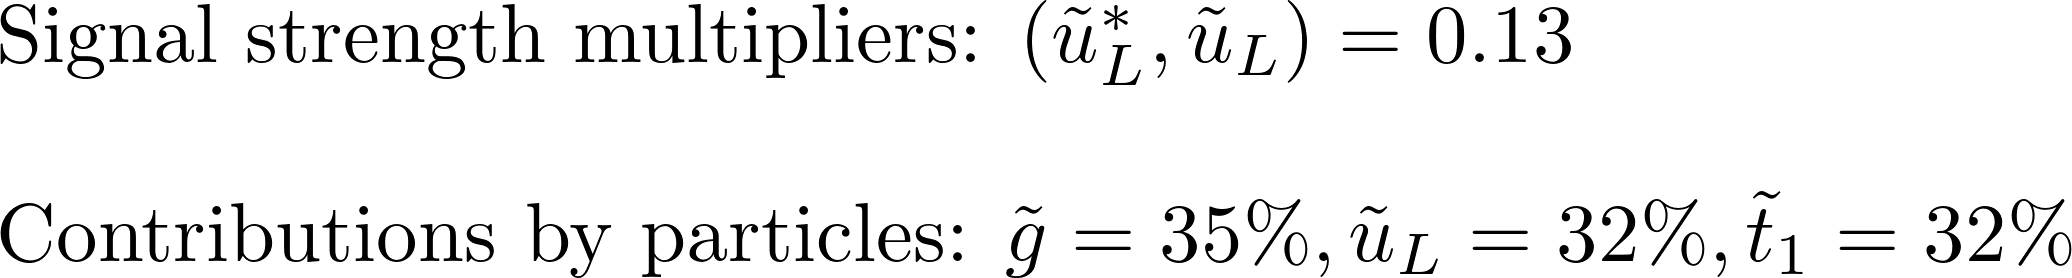
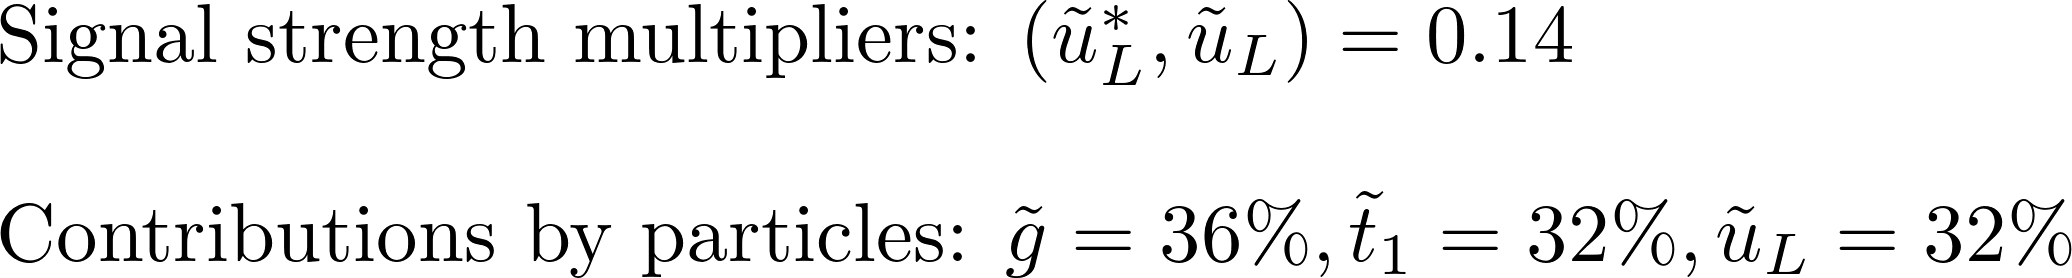
automated update by plotHiscore.py

diff --git a/protomodels/latest/index.html b/protomodels/latest/index.html
@@ -1,31 +1,31 @@
 <html>
 <body>
 <center>
-<table><td><h1>Current best protomodel: K=9.63, Z=3.63</h1><td><img height=60px src=https://smodels.github.io/pics/banner.png></table>
+<table><td><h1>Current best protomodel: K=9.92, Z=3.64</h1><td><img height=60px src=https://smodels.github.io/pics/banner.png></table>
 </center>
-<b><a href=./hiscore.slha>ProtoModel</a> <a href=./pmodel.py>(dict)</a> produced with <a href=https://smodels.github.io/docs/Validation123>database v1.2.3</a>, combination strategy <a href=./matrix_aggressive.png>aggressive</a> in walker 48 step 289.</b> Z plots for: <a href=./M1000022.png?2244664>~&chi;<sub>1</sub><sup>0</sup></a>, <a href=./M1000002.png?2244664>~u<sub>L</sub></a>, <a href=./M1000006.png?2244664>~t<sub>1</sub></a>, <a href=./M1000021.png?2244664>~g</a>. HPD plots for: <a href=./llhd1000002.png?2244664>~u<sub>L</sub></a>, <a href=./llhd1000006.png?2244664>~t<sub>1</sub></a>, <a href=./llhd1000021.png?2244664>~g</a>. SSM plots for: <br>
+<b><a href=./hiscore.slha>ProtoModel</a> <a href=./pmodel.py>(dict)</a> produced with <a href=https://smodels.github.io/docs/Validation123>database v1.2.3</a>, combination strategy <a href=./matrix_aggressive.png>aggressive</a> in walker 16 step 289.</b> Z plots for: <a href=./M1000022.png?2244828>~&chi;<sub>1</sub><sup>0</sup></a>, <a href=./M1000002.png?2244828>~u<sub>L</sub></a>, <a href=./M1000006.png?2244828>~t<sub>1</sub></a>, <a href=./M1000021.png?2244828>~g</a>. HPD plots for: <a href=./llhd1000002.png?2244828>~u<sub>L</sub></a>, <a href=./llhd1000006.png?2244828>~t<sub>1</sub></a>, <a href=./llhd1000021.png?2244828>~g</a>. SSM plots for: <br>
 <table width=80%>
 <tr><td>
 <br><b>15 predictions available. Highest r values are:</b><br><ul>
-<li><a href=http://cms-results.web.cern.ch/cms-results/public-results/publications/SUS-19-006/index.html>CMS-SUS-19-006</a>:T2 r=0.15, r<sub>exp</sub>=0.13<br>
-<li><a href=http://cms-results.web.cern.ch/cms-results/public-results/publications/SUS-16-033/index.html>CMS-SUS-16-033</a>:T2 r=0.14, r<sub>exp</sub>=0.10<br>
-<li><a href=http://cms-results.web.cern.ch/cms-results/public-results/publications/SUS-16-036/index.html>CMS-SUS-16-036</a>:T2 r=0.10, r<sub>exp</sub>=0.08<br>
-<li><a href=http://cms-results.web.cern.ch/cms-results/public-results/publications/SUS-16-033/index.html>CMS-SUS-16-033</a>:T2 r=0.04, r<sub>exp</sub>=0.04<br>
-<li><a href=https://atlas.web.cern.ch/Atlas/GROUPS/PHYSICS/PAPERS/SUSY-2016-07/>ATLAS-SUSY-2016-07</a>:T2 r=0.03, r<sub>exp</sub>=N/A<br>
+<li><a href=http://cms-results.web.cern.ch/cms-results/public-results/publications/SUS-19-006/index.html>CMS-SUS-19-006</a>:T2 r=0.17, r<sub>exp</sub>=0.14<br>
+<li><a href=http://cms-results.web.cern.ch/cms-results/public-results/publications/SUS-16-033/index.html>CMS-SUS-16-033</a>:T2 r=0.16, r<sub>exp</sub>=0.11<br>
+<li><a href=http://cms-results.web.cern.ch/cms-results/public-results/publications/SUS-16-036/index.html>CMS-SUS-16-036</a>:T2 r=0.11, r<sub>exp</sub>=0.09<br>
+<li><a href=http://cms-results.web.cern.ch/cms-results/public-results/publications/SUS-16-033/index.html>CMS-SUS-16-033</a>:T2 r=0.04, r<sub>exp</sub>=0.05<br>
+<li><a href=https://atlas.web.cern.ch/Atlas/GROUPS/PHYSICS/PAPERS/SUSY-2016-07/>ATLAS-SUSY-2016-07</a>:T2 r=0.04, r<sub>exp</sub>=N/A<br>
 </ul>
 <td><br><b>Contributions per analysis:</b><br>
 <ul>
-<li> <a href=https://atlas.web.cern.ch/Atlas/GROUPS/PHYSICS/PAPERS/SUSY-2016-07/>ATLAS-SUSY-2016-07</a>: 54%
-<li> <a href=http://atlas.web.cern.ch/Atlas/GROUPS/PHYSICS/PAPERS/SUSY-2015-02/>ATLAS-SUSY-2015-02</a>: 40%
-<li> <a href=http://cms-results.web.cern.ch/cms-results/public-results/publications/SUS-16-050/index.html>CMS-SUS-16-050</a>: 19%
-<li> <a href=https://twiki.cern.ch/twiki/bin/view/CMSPublic/PhysicsResultsSUS13012>CMS-SUS-13-012</a>: 14%
-<li> <a href=https://atlas.web.cern.ch/Atlas/GROUPS/PHYSICS/PAPERS/SUSY-2013-15/>ATLAS-SUSY-2013-15</a>: -10%
-<li> <a href=https://atlas.web.cern.ch/Atlas/GROUPS/PHYSICS/PAPERS/SUSY-2013-02/>ATLAS-SUSY-2013-02</a>: -17%
-<td><img width=600px src=./texdoc.png?1595244664>
-<br><font size=-1>Last updated: Mon Jul 20 13:31:04 2020</font>
+<li> <a href=https://atlas.web.cern.ch/Atlas/GROUPS/PHYSICS/PAPERS/SUSY-2016-07/>ATLAS-SUSY-2016-07</a>: 50%
+<li> <a href=http://atlas.web.cern.ch/Atlas/GROUPS/PHYSICS/PAPERS/SUSY-2015-02/>ATLAS-SUSY-2015-02</a>: 36%
+<li> <a href=http://cms-results.web.cern.ch/cms-results/public-results/publications/SUS-16-050/index.html>CMS-SUS-16-050</a>: 20%
+<li> <a href=https://twiki.cern.ch/twiki/bin/view/CMSPublic/PhysicsResultsSUS13012>CMS-SUS-13-012</a>: 15%
+<li> <a href=https://atlas.web.cern.ch/Atlas/GROUPS/PHYSICS/PAPERS/SUSY-2013-15/>ATLAS-SUSY-2013-15</a>: -8%
+<li> <a href=https://atlas.web.cern.ch/Atlas/GROUPS/PHYSICS/PAPERS/SUSY-2013-02/>ATLAS-SUSY-2013-02</a>: -14%
+<td><img width=600px src=./texdoc.png?1595244828>
+<br><font size=-1>Last updated: Mon Jul 20 13:33:48 2020</font>
 </table><table style="width:80%">
-<td width=45%><img height=580px src=./ruler.png?1595244664><td width=55%><img height=380px src=./decays.png?1595244664>
-<font size=-3><iframe type="text/html" height="220px" width="100%s" frameborder="0" src="./rawnumbers.html?1595244664"></iframe></font>
+<td width=45%><img height=580px src=./ruler.png?1595244828><td width=55%><img height=380px src=./decays.png?1595244828>
+<font size=-3><iframe type="text/html" height="220px" width="100%s" frameborder="0" src="./rawnumbers.html?1595244828"></iframe></font>
 </table>
 </body>
 </html>

diff --git a/protomodels/latest/rawnumbers.html b/protomodels/latest/rawnumbers.html
@@ -3,7 +3,7 @@
 </tr>
 <tr><td><a href=http://atlas.web.cern.ch/Atlas/GROUPS/PHYSICS/PAPERS/SUSY-2015-02/>ATLAS-SUSY-2015-02</a></td><td>em</td> <td>SR1</td><td>12</td><td>5.5 +/- 0.72</td><td style="text-align:right">2.6 &sigma;</td><td style="text-align:right">~t<sub>1</sub></td></tr>
 <tr><td><a href=https://atlas.web.cern.ch/Atlas/GROUPS/PHYSICS/PAPERS/SUSY-2016-07/>ATLAS-SUSY-2016-07</a></td><td>em</td> <td>2j_Meff_1200</td><td>611</td><td>526 +/- 31</td><td style="text-align:right">2.2 &sigma;</td><td style="text-align:right">~u<sub>L</sub>,~g</td></tr>
-<tr><td><a href=http://cms-results.web.cern.ch/cms-results/public-results/publications/SUS-16-050/index.html>CMS-SUS-16-050</a></td><td>ul</td> <td>-</td><td> 71.8 fb </td><td> 40.6 fb</td><td style="text-align:right">1.5 &sigma;</td><td style="text-align:right">~t<sub>1</sub></td></tr>
+<tr><td><a href=http://cms-results.web.cern.ch/cms-results/public-results/publications/SUS-16-050/index.html>CMS-SUS-16-050</a></td><td>ul</td> <td>-</td><td> 69.2 fb </td><td> 39.3 fb</td><td style="text-align:right">1.5 &sigma;</td><td style="text-align:right">~t<sub>1</sub></td></tr>
 <tr><td><a href=https://atlas.web.cern.ch/Atlas/GROUPS/PHYSICS/PAPERS/SUSY-2013-02/>ATLAS-SUSY-2013-02</a></td><td>em</td> <td>SR6jtp</td><td>6</td><td>4.9 +/- 1.6</td><td style="text-align:right">0.4 &sigma;</td><td style="text-align:right">~u<sub>L</sub>,~g</td></tr>
 <tr><td><a href=https://atlas.web.cern.ch/Atlas/GROUPS/PHYSICS/PAPERS/SUSY-2013-15/>ATLAS-SUSY-2013-15</a></td><td>em</td> <td>tNboost</td><td>5</td><td>3.3 +/- 0.7</td><td style="text-align:right">0.9 &sigma;</td><td style="text-align:right">~t<sub>1</sub></td></tr>
 <tr><td><a href=https://twiki.cern.ch/twiki/bin/view/CMSPublic/PhysicsResultsSUS13012>CMS-SUS-13-012</a></td><td>ul</td> <td>-</td><td> 33.8 fb </td><td> 20.7 fb</td><td style="text-align:right">1.2 &sigma;</td><td style="text-align:right">~u<sub>L</sub></td></tr>

diff --git a/protomodels/latest/pmodel.py b/protomodels/latest/pmodel.py
@@ -1,1 +1,1 @@
-{'masses': {1000022: 353.552, 1000002: 830.431}, 'ssmultipliers': {(1000022, 1000022): 2.61, (1000002, 1000002): 0.19, (-1000002, 1000002): 0.125, (1000002, 1000022): 0.0, (-1000002, -1000002): 0.125, (-1000002, 1000022): 0.0}, 'decays': {1000022: {}, 1000002: {1000022: 1.0}}, 'timestamp': 'Mon Jul 20 13:30:58 2020', 'Z': 3.628, 'K': 9.631, 'step': 289}
+{'masses': {1000022: 353.552, 1000002: 830.431}, 'ssmultipliers': {(1000022, 1000022): 2.491, (1000002, 1000002): 0.216, (-1000002, 1000002): 0.142, (1000002, 1000022): 0.0, (-1000002, -1000002): 0.142, (-1000002, 1000022): 0.0}, 'decays': {1000022: {}, 1000002: {1000022: 1.0}}, 'timestamp': 'Mon Jul 20 13:33:43 2020', 'Z': 3.641, 'K': 9.918, 'step': 289}
